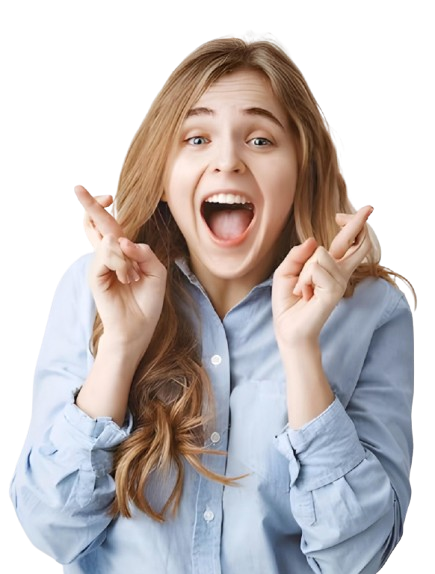
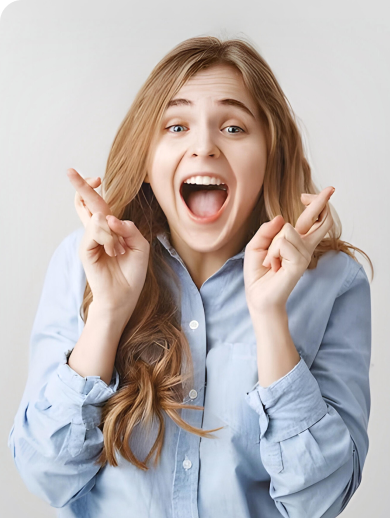
Fixes visuales 😄
1. El profile_screen se veía oscuro, era un problema de tintes_gradients

2. Reemplace varias secciones del código por tintes_gradients ya que hace exactamente lo mismo

3. Cambie las imágenes del onboarding, ahora si tienen calidad, también puse un gradient de fondo por si la imagen no encaja, depende mucho del tipo de celular

diff --git a/lib/features/profile/presentation/profile_screen.dart b/lib/features/profile/presentation/profile_screen.dart
@@ -2,7 +2,6 @@
 import 'package:cloud_firestore/cloud_firestore.dart';
 import 'package:firebase_auth/firebase_auth.dart';
 import 'package:flutter/material.dart';
-import 'package:go_router/go_router.dart';
 import 'package:migozz_app/core/components/formart/text_formart.dart';
 import 'package:migozz_app/features/profile/components/draggable_social_rail.dart';
 import 'package:migozz_app/features/profile/components/ai_assistant.dart';
@@ -10,6 +9,7 @@ import 'package:migozz_app/features/profile/components/bottom_nav.dart';
 import 'package:migozz_app/features/profile/components/background_image.dart';
 import 'package:migozz_app/features/profile/components/social_rail.dart';
 import 'package:migozz_app/features/profile/presentation/profile_stats.dart';
+import 'package:migozz_app/features/search/presentation/search_screen.dart';
 
 class ProfileScreen extends StatefulWidget {
   const ProfileScreen({super.key});
@@ -158,9 +158,9 @@ class _ProfileScreenState extends State<ProfileScreen> {
       size.height * 0.2,
     );
 
-    final rawname = (_userDoc?['displayName'] as String?) ?? 'John Doe';
+    final rawname = (_userDoc?['displayName'] as String?) ?? 'Fullname';
     final name = formatDisplayName(rawname, format: FormatName.short);
-    final username = (_userDoc?['username'] as String?) ?? '@johndoe';
+    final username = (_userDoc?['username'] as String?) ?? '@username';
     final avatarUrl = (_userDoc?['avatarUrl'] as String?);
     final social = _userSocials.isNotEmpty
         ? _userSocials.map((e) => e['provider']!).toList()
@@ -212,17 +212,19 @@ class _ProfileScreenState extends State<ProfileScreen> {
                   ),
                 ),
 
-                // Botón de menú para editar perfil
+                // Botón de menú para busqueda de usuarios
                 Positioned(
-                  left: 0,
+                  left: 20,
                   top: 70,
                   child: GestureDetector(
-                    onTap: () async {
-                      final res = await context.push('/edit-profile');
-                      if (res == 'updated') _loadUser();
+                    onTap: () {
+                      Navigator.push(
+                        context,
+                        MaterialPageRoute(builder: (context) => const SearchScreen())
+                      );
                     },
                     child: const Icon(
-                      Icons.more_vert,
+                      Icons.search,
                       color: Color(0xAAFFFFFF),
                       size: 60,
                     ),

diff --git a/lib/features/profile/presentation/share_profile.dart b/lib/features/profile/presentation/share_profile.dart
@@ -1,4 +1,5 @@
 import 'package:flutter/material.dart';
+import 'package:migozz_app/features/profile/components/tintes_gradients.dart';
 import 'package:qr_flutter/qr_flutter.dart';
 import 'package:share_plus/share_plus.dart';
 import 'package:firebase_auth/firebase_auth.dart';
@@ -102,8 +103,10 @@ class _ProfileQrScreenState extends State<ProfileQrScreen> {
     return Scaffold(
       backgroundColor: Colors.black,
       body: Stack(
+        // Tintes y gradientes
         alignment: Alignment.center,
         children: [
+        TintesGradients(child: Container(height: bottomGradientHeight)),
           FutureBuilder<_ProfileData>(
             future: _futureProfile,
             builder: (context, snap) {
@@ -191,44 +194,6 @@ class _ProfileQrScreenState extends State<ProfileQrScreen> {
               onPressed: () => Navigator.pop(context),
             ),
           ),
-          IgnorePointer(
-          child: Container(
-            decoration: BoxDecoration(
-              gradient: RadialGradient(
-                center: const Alignment(-0.9, -0.9), // arriba-izquierda
-                radius: 1.0,
-                colors: [
-                  const Color(0xFFB86BFF).withValues(alpha: 0.45),
-                  Colors.transparent,
-                ],
-                stops: const [0.0, 1.0],
-              ),
-            ),
-          ),
-        ),
-
-        // Gradiente dorado inferior, suave
-        Positioned(
-          left: 0,
-          right: 0,
-          bottom: 0,
-          height: bottomGradientHeight * 1.6,
-          child: IgnorePointer(
-            child: Container(
-              decoration: BoxDecoration(
-                gradient: RadialGradient(
-                  center: const Alignment(0.9, 1.4),
-                  radius: 1.2,
-                  colors: [
-                    const Color(0xFFF3C623).withValues(alpha: 0.55),
-                    Colors.transparent,
-                  ],
-                  stops: const [0.4, 0.75],
-                ),
-              ),
-            ),
-          ),
-        ),
         ],
       ),
     );

diff --git a/lib/features/profile/presentation/profile_stats.dart b/lib/features/profile/presentation/profile_stats.dart
@@ -2,6 +2,7 @@ import 'package:cloud_firestore/cloud_firestore.dart';
 import 'package:firebase_auth/firebase_auth.dart';
 import 'package:flutter/material.dart';
 import 'package:migozz_app/features/profile/components/bottom_nav.dart';
+import 'package:migozz_app/features/profile/components/tintes_gradients.dart';
 
 class ProfileStatsScreen extends StatefulWidget {
   const ProfileStatsScreen({super.key});
@@ -165,44 +166,7 @@ class _ProfileStatsScreenState extends State<ProfileStatsScreen> {
       body: Stack(
         children: [
           // Fondo con gradientes decorativos
-          IgnorePointer(
-            child: Container(
-              decoration: BoxDecoration(
-                gradient: RadialGradient(
-                  center: const Alignment(-0.9, -0.9), // arriba-izquierda
-                  radius: 1.0,
-                  colors: [
-                    const Color(0xFFB86BFF).withValues(alpha: 0.45),
-                    Colors.transparent,
-                  ],
-                  stops: const [0.0, 1.0],
-                ),
-              ),
-            ),
-          ),
-
-          Positioned(
-            left: 0,
-            right: 0,
-            bottom: 0,
-            height: bottomGradientHeight * 1.6,
-            child: IgnorePointer(
-              child: Container(
-                decoration: BoxDecoration(
-                  gradient: RadialGradient(
-                    center: const Alignment(0.9, 1.4),
-                    radius: 1.2,
-                    colors: [
-                      const Color(0xFFF3C623).withValues(alpha: 0.55),
-                      Colors.transparent,
-                    ],
-                    stops: const [0.4, 0.75],
-                  ),
-                ),
-              ),
-            ),
-          ),
-
+          TintesGradients(child: Container(height: bottomGradientHeight)),
           // Contenido principal
           SafeArea(
             child: Padding(

diff --git a/lib/features/auth/presentation/onboarding/onboarding_screen.dart b/lib/features/auth/presentation/onboarding/onboarding_screen.dart
@@ -16,6 +16,8 @@ class OnboardingScreen extends StatefulWidget {
 class _OnboardingScreenState extends State<OnboardingScreen> {
   final PageController _pageController = PageController();
   int _currentPage = 0;
+  
+  get gradient => null;
 
   @override
   void didChangeDependencies() {
@@ -141,8 +143,8 @@ class _OnboardingScreenState extends State<OnboardingScreen> {
             padding: const EdgeInsets.all(8.0),
             child: Container(
               width: double.infinity,
-              decoration: const BoxDecoration(
-                color: AppColors.backgroundLight,
+              decoration: BoxDecoration(
+                gradient: gradient ?? AppColors.verticalOnboarding,
                 borderRadius: BorderRadius.only(
                   topLeft: Radius.circular(30),
                   topRight: Radius.circular(30),
@@ -166,7 +168,6 @@ class _OnboardingScreenState extends State<OnboardingScreen> {
                         ),
                       ),
                     ),
-            //issamu382@gmail.com
                     // Efecto radial
                     Positioned.fill(
                       child: Container(

diff --git a/lib/features/profile/components/tintes_gradients.dart b/lib/features/profile/components/tintes_gradients.dart
@@ -17,10 +17,10 @@ class TintesGradients extends StatelessWidget {
                 center: const Alignment(-0.9, -0.9), // arriba-izquierda
                 radius: 0.8,
                 colors: [
-                  const Color.fromARGB(174, 184, 107, 255),
-                  const Color.fromARGB(144, 0, 0, 0),
+                  const Color.fromARGB(110, 184, 107, 255),
+                  Colors.transparent,
                 ],
-                stops: const [0.15, 0.75],
+                stops: const [0.2, 0.9],
               ),
             ),
           ),
@@ -34,10 +34,10 @@ class TintesGradients extends StatelessWidget {
                 center: const Alignment(0.9, 0.9),
                 radius: 1.5,
                 colors: [
-                  const Color.fromARGB(181, 243, 198, 35),
-                  const Color.fromARGB(144, 0, 0, 0),
+                  const Color.fromARGB(100, 243, 198, 35),
+                  Colors.transparent,
                 ],
-                stops: const [0.02, 0.35],
+                stops: const [0.1, 0.9],
               ),
             ),
           ),

diff --git a/lib/features/search/components/result_search.dart b/lib/features/search/components/result_search.dart
@@ -231,12 +231,15 @@ class _ResultSearchState extends State<ResultSearch> {
                         Builder(
                           builder: (_) {
                             final parts = <String>[];
-                            if (city != null && city.isNotEmpty)
+                            if (city != null && city.isNotEmpty) {
                               parts.add(city);
-                            if (state != null && state.isNotEmpty)
+                            }
+                            if (state != null && state.isNotEmpty) {
                               parts.add(state);
-                            if (country != null && country.isNotEmpty)
+                            }
+                            if (country != null && country.isNotEmpty) {
                               parts.add(country);
+                            }
                             final locationLine = parts.join(', ');
                             return Row(
                               children: [

diff --git a/lib/core/color.dart b/lib/core/color.dart
@@ -13,6 +13,12 @@ class AppColors {
   static const Color textInputBackGround = Color.fromARGB(255, 99, 99, 99);
   static const Color backgroundGoole = Color(0xFF404040);
 
+  static LinearGradient get verticalOnboarding => LinearGradient(
+    colors:[Color(0xFFE1E2E4), Color(0xFFCED1D8)],
+    begin: Alignment.topCenter,
+    end: Alignment.bottomCenter
+    );
+
   static LinearGradient get primaryGradient => const LinearGradient(
     colors: [Color(0xFFF89A44), Color(0xFFD43AB6), Color(0xFF9321BD)],
     begin: Alignment.centerLeft,

diff --git a/lib/core/services/ai/gemini_service.dart b/lib/core/services/ai/gemini_service.dart
@@ -53,8 +53,9 @@ class GeminiService {
     _modelName = newModel ?? _modelName;
     _configureModel(key, _modelName);
     resetSession();
-    if (kDebugMode)
+    if (kDebugMode) {
       debugPrint('GeminiService: API key refrescada, modelo=$_modelName');
+    }
     return true;
   }
 
